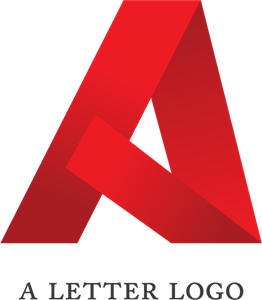
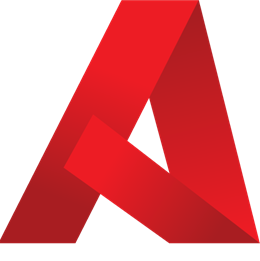
Appply some changes

diff --git a/assignment-002/resume/src/app/app-routing.module.ts b/assignment-002/resume/src/app/app-routing.module.ts
@@ -9,17 +9,19 @@ import { AssignmentInfoComponent } from './assignment-info/assignment-info.compo
 import { AboutMeComponent } from './about-me/about-me.component';
 import { ImportanrLinkComponent } from './importanr-link/importanr-link.component';
 import { TechnicalSkillComponent } from './technical-skill/technical-skill.component';
-
+import { HomeComponent } from './home/home.component';
 
 const routes: Routes = [
-	// { path: '', component:AppComponent},
+	// { path: 'Home', component:AppComponent},
 	{ path: 'Personal', component:PersonalDetailComponent},
 	{ path: 'Educational', component:EducationalDetailsComponent},
 	{ path: 'Technical' , component :TechnicalSkillComponent},
 	{ path: 'Project' , component :ProjectInfoComponent},
 	{ path: 'Assignment' , component :AssignmentInfoComponent},
 	{ path: 'About' , component :AboutMeComponent},
-	{ path: 'Links' , component :ImportanrLinkComponent}
+	{ path: 'Links' , component :ImportanrLinkComponent},
+	// { path: 'Home' , component :HomeComponent},
+	{ path: '' , component :HomeComponent}
 ];
 
 @NgModule({

diff --git a/assignment-002/resume/src/index.html b/assignment-002/resume/src/index.html
@@ -5,7 +5,7 @@
   <title>Resume</title>
   <base href="/">
   <meta name="viewport" content="width=device-width, initial-scale=1">
-  <link rel="icon" type="image/x-icon" href="favicon.ico">
+  <link rel="icon" type="image/x-icon" href="assets/MyLetter.png">
   <link href="https://fonts.googleapis.com/css?family=Roboto:300,400,500&display=swap" rel="stylesheet">
   <link href="https://fonts.googleapis.com/icon?family=Material+Icons" rel="stylesheet">
      <link rel="stylesheet" href="https://stackpath.bootstrapcdn.com/bootstrap/4.4.1/css/bootstrap.min.css" integrity="sha384-Vkoo8x4CGsO3+Hhxv8T/Q5PaXtkKtu6ug5TOeNV6gBiFeWPGFN9MuhOf23Q9Ifjh" crossorigin="anonymous">

diff --git a/assignment-002/resume/src/app/home/home.component.spec.ts b/assignment-002/resume/src/app/home/home.component.spec.ts
@@ -1,0 +1,25 @@
+import { async, ComponentFixture, TestBed } from '@angular/core/testing';
+
+import { HomeComponent } from './home.component';
+
+describe('HomeComponent', () => {
+  let component: HomeComponent;
+  let fixture: ComponentFixture<HomeComponent>;
+
+  beforeEach(async(() => {
+    TestBed.configureTestingModule({
+      declarations: [ HomeComponent ]
+    })
+    .compileComponents();
+  }));
+
+  beforeEach(() => {
+    fixture = TestBed.createComponent(HomeComponent);
+    component = fixture.componentInstance;
+    fixture.detectChanges();
+  });
+
+  it('should create', () => {
+    expect(component).toBeTruthy();
+  });
+});

diff --git a/assignment-002/resume/src/app/app.module.ts b/assignment-002/resume/src/app/app.module.ts
@@ -16,6 +16,7 @@ import { AssignmentInfoComponent } from './assignment-info/assignment-info.compo
 import { AboutMeComponent } from './about-me/about-me.component';
 import { ImportanrLinkComponent } from './importanr-link/importanr-link.component';
 import {MatCardModule} from '@angular/material/card';
+import { HomeComponent } from './home/home.component';
 
 
 
@@ -28,7 +29,8 @@ import {MatCardModule} from '@angular/material/card';
     ProjectInfoComponent,
     AssignmentInfoComponent,
     AboutMeComponent,
-    ImportanrLinkComponent
+    ImportanrLinkComponent,
+    HomeComponent
   ],
   imports: [
     BrowserModule,

diff --git a/assignment-002/resume/src/app/app.component.css b/assignment-002/resume/src/app/app.component.css
@@ -1,14 +1,3 @@
-.page-footer
-{
-	color: blue;
-}
-
-app 
-{
-   min-height: 100%;
-   position: relative;
-}
-
 b
 {
 	color:black;
@@ -17,11 +6,19 @@ b
 nav
 {
 	background-color: rgb(77, 166, 255);
+   /*height: 40px;*/
 }
 
 mat-card
 {
 	background-color:rgb(153, 204, 255);
+   height:130px;
+}
+
+.footer-mat
+{
+   background-color:rgb(153, 204, 255);
+   height:80px;
 }
 
 footer 

diff --git a/assignment-002/resume/src/app/home/home.component.ts b/assignment-002/resume/src/app/home/home.component.ts
@@ -1,0 +1,15 @@
+import { Component, OnInit } from '@angular/core';
+
+@Component({
+  selector: 'app-home',
+  templateUrl: './home.component.html',
+  styleUrls: ['./home.component.css']
+})
+export class HomeComponent implements OnInit {
+
+  constructor() { }
+
+  ngOnInit(): void {
+  }
+
+}

diff --git a/assignment-002/resume/src/app/app.component.html b/assignment-002/resume/src/app/app.component.html
@@ -16,11 +16,12 @@
 
 </mat-card>
 
+
 <footer>
-  <mat-card>
+  <mat-card class='footer-mat'>
     <nav mat-tab-nav-bar>
       <a mat-tab-link
-         *ngFor="let link of navLinks"
+         *ngFor="let link of navNames"
          [routerLink]="link">
         <b>{{link}}</b>
       </a>

diff --git a/assignment-002/resume/src/app/home/home.component.html b/assignment-002/resume/src/app/home/home.component.html
@@ -1,0 +1,9 @@
+
+	<div>
+		<mat-card style="padding-left:180px">	
+			<h1><b>Welcome CHAVAN ANAND JALINDAR</b></h1>
+			<img src='assets/MyLetter.png'>
+		</mat-card>
+	</div>
+
+

diff --git a/assignment-002/resume/src/app/assignment-info/assignment-info.component.css b/assignment-002/resume/src/app/assignment-info/assignment-info.component.css
@@ -10,7 +10,7 @@ div
 
 mat-card
 {
-	background-color:rgb(77, 166, 255);
+	background-color:rgb(204, 255, 204);
 	min-height:400px;
 	min-width: 800px;
 	border:solid;

diff --git a/assignment-002/resume/src/app/educational-details/educational-details.component.css b/assignment-002/resume/src/app/educational-details/educational-details.component.css
@@ -10,7 +10,7 @@ div
 
 mat-card
 {
-	background-color:rgb(77, 166, 255);
+	background-color:rgb(204, 255, 204);
 	min-height:400px;
 	min-width: 800px;
 	border:solid;

diff --git a/assignment-002/resume/src/app/importanr-link/importanr-link.component.css b/assignment-002/resume/src/app/importanr-link/importanr-link.component.css
@@ -10,7 +10,7 @@ div
 
 mat-card
 {
-	background-color:rgb(77, 166, 255);
+	background-color:rgb(204, 255, 204);
 	min-height:400px;
 	min-width: 800px;
 	border:solid;

diff --git a/assignment-002/resume/src/app/personal-detail/personal-detail.component.css b/assignment-002/resume/src/app/personal-detail/personal-detail.component.css
@@ -10,7 +10,7 @@ div
 
 mat-card
 {
-	background-color:rgb(77, 166, 255);
+	background-color:rgb(204, 255, 204);
 	min-height:400px;
 	min-width: 800px;
 	border:solid;
